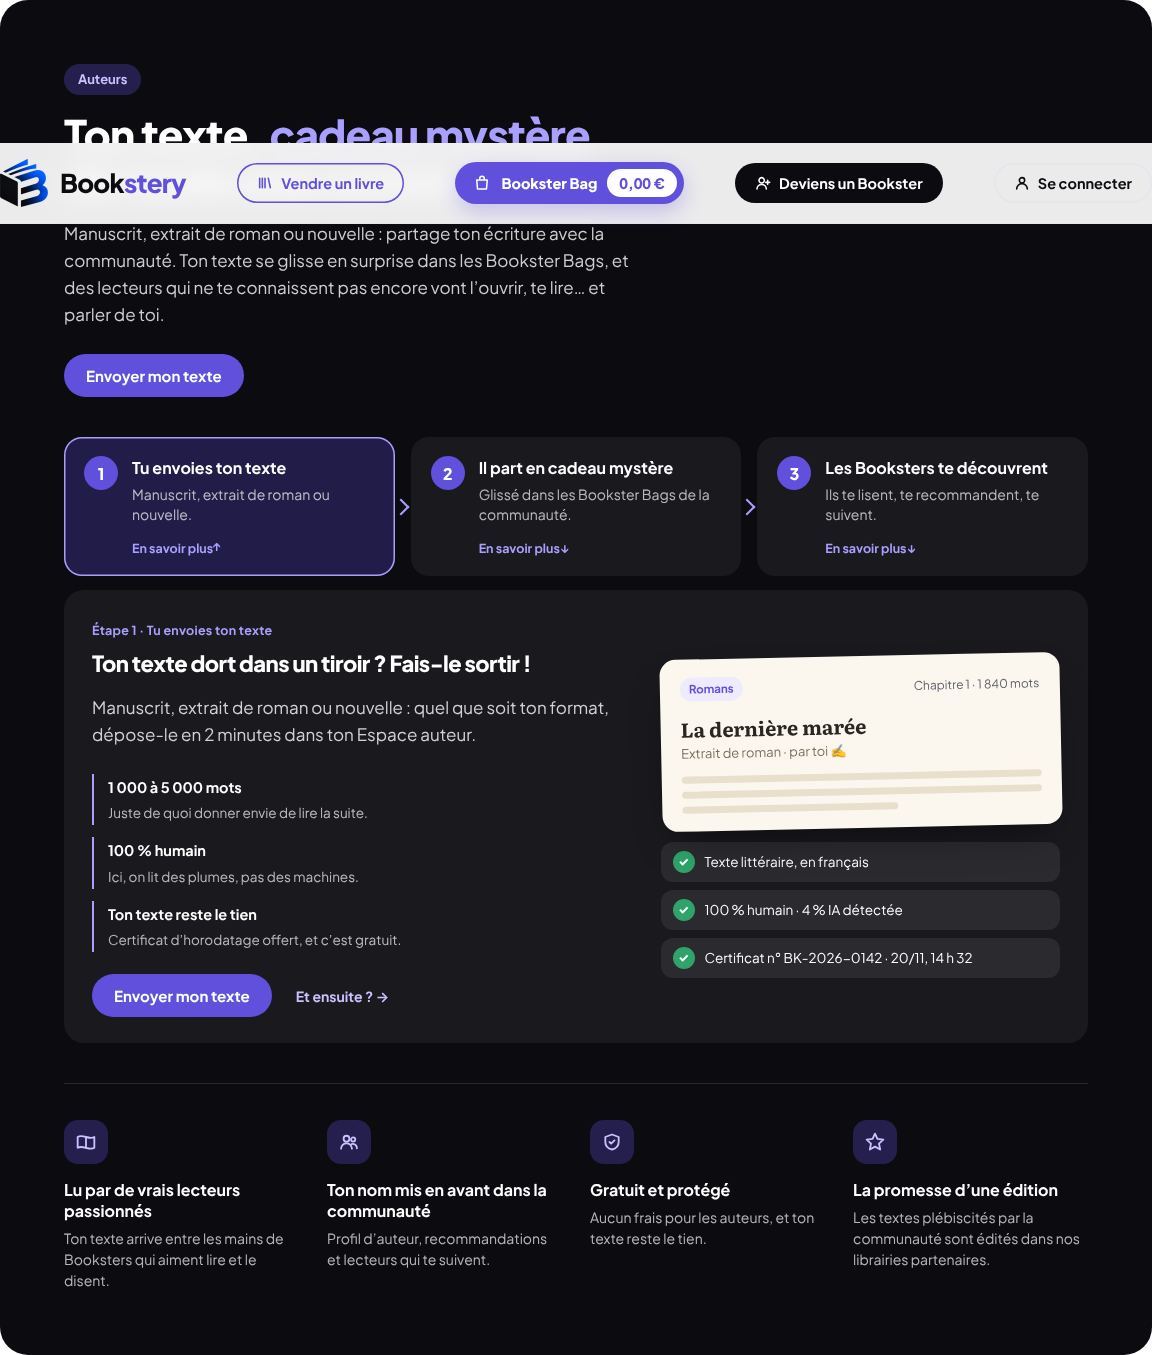
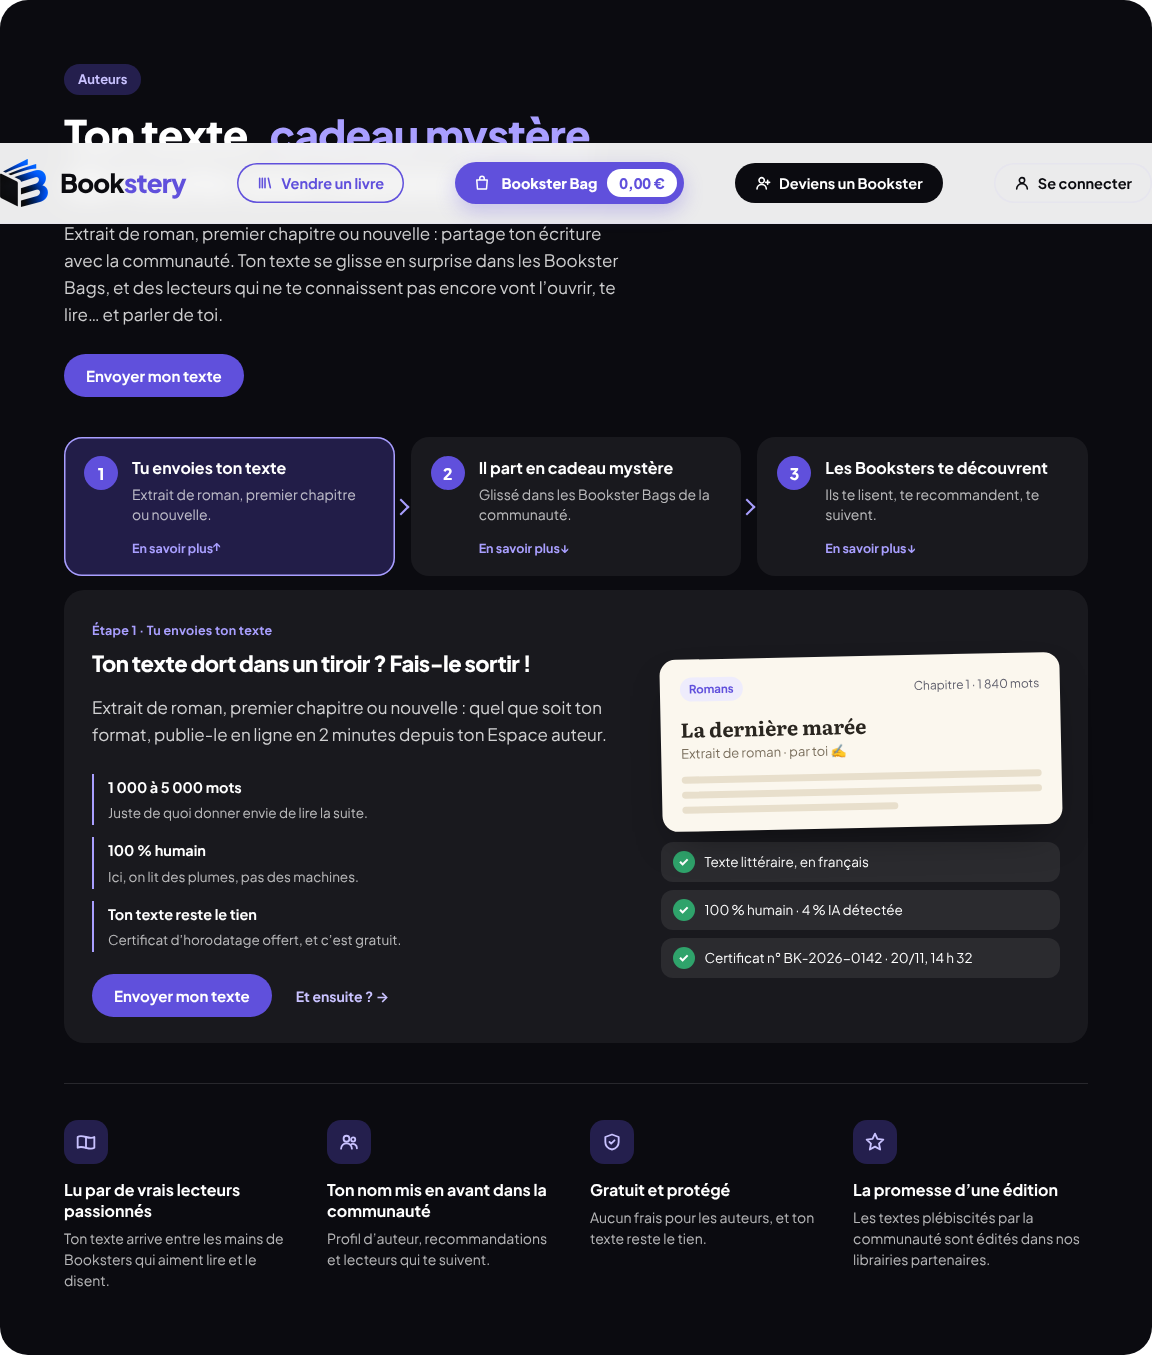
Espace auteur : « extrait de roman, premier chapitre ou nouvelle » au lieu de « manuscrit »
Claude-Session: https://claude.ai/code/session_01EPa3evC84KLMU14gb8iTX3

Changed region(s): [[0.0625, 0.155, 0.5312, 0.248], [0.0938, 0.4959, 0.5312, 0.5579], [0.125, 0.341, 0.3125, 0.403]]

diff --git a/index.html b/index.html
@@ -840,12 +840,12 @@ footer nav{flex-wrap:wrap;gap:10px 24px}
           <div>
             <span class="a-eyebrow">Auteurs</span>
             <h2>Ton texte, <span>cadeau mystère</span> de toute une communauté.</h2>
-            <p>Manuscrit, extrait de roman ou nouvelle&nbsp;: partage ton écriture avec la communauté. Ton texte se glisse en surprise dans les Bookster Bags, et des lecteurs qui ne te connaissent pas encore vont l’ouvrir, te lire… et parler de toi.</p>
+            <p>Extrait de roman, premier chapitre ou nouvelle&nbsp;: partage ton écriture avec la communauté. Ton texte se glisse en surprise dans les Bookster Bags, et des lecteurs qui ne te connaissent pas encore vont l’ouvrir, te lire… et parler de toi.</p>
             <button class="btn" type="button" data-auteur>Envoyer mon texte</button>
           </div>
         </div>
         <ol class="flow" aria-label="Le parcours de ton texte">
-            <li><button class="flow-btn" type="button" id="fb1" aria-expanded="false" aria-controls="fp1"><i>1</i><div><b>Tu envoies ton texte</b><span>Manuscrit, extrait de roman ou nouvelle.</span></div><em class="flow-more" aria-hidden="true">En savoir plus</em></button></li>
+            <li><button class="flow-btn" type="button" id="fb1" aria-expanded="false" aria-controls="fp1"><i>1</i><div><b>Tu envoies ton texte</b><span>Extrait de roman, premier chapitre ou nouvelle.</span></div><em class="flow-more" aria-hidden="true">En savoir plus</em></button></li>
             <li><button class="flow-btn" type="button" id="fb2" aria-expanded="false" aria-controls="fp2"><i>2</i><div><b>Il part en cadeau mystère</b><span>Glissé dans les Bookster Bags de la communauté.</span></div><em class="flow-more" aria-hidden="true">En savoir plus</em></button></li>
             <li><button class="flow-btn" type="button" id="fb3" aria-expanded="false" aria-controls="fp3"><i>3</i><div><b>Les Booksters te découvrent</b><span>Ils te lisent, te recommandent, te suivent.</span></div><em class="flow-more" aria-hidden="true">En savoir plus</em></button></li>
           </ol>
@@ -854,7 +854,7 @@ footer nav{flex-wrap:wrap;gap:10px 24px}
             <div class="fp-txt">
             <span class="fp-k">Étape 1 · Tu envoies ton texte</span>
             <h3>Ton texte dort dans un tiroir&nbsp;? Fais-le sortir&nbsp;!</h3>
-            <p>Manuscrit, extrait de roman ou nouvelle&nbsp;: quel que soit ton format, dépose-le en 2 minutes dans ton Espace auteur.</p>
+            <p>Extrait de roman, premier chapitre ou nouvelle&nbsp;: quel que soit ton format, publie-le en ligne en 2 minutes depuis ton Espace auteur.</p>
             <ul class="fp-list">
               <li><b>1&nbsp;000 à 5&nbsp;000 mots</b><span>Juste de quoi donner envie de lire la suite.</span></li>
               <li><b>100&nbsp;% humain</b><span>Ici, on lit des plumes, pas des machines.</span></li>
@@ -974,7 +974,7 @@ footer nav{flex-wrap:wrap;gap:10px 24px}
   <button class="icon x" type="button" data-close aria-label="Fermer"><svg width="16" height="16" viewBox="0 0 24 24" fill="none" stroke="currentColor" stroke-width="2.6" stroke-linecap="round"><path d="M6 6l12 12M18 6 6 18"/></svg></button>
   <img src="mark.png" alt="">
   <h2 id="mTitle">Deviens un Bookster</h2>
-  <p>Sois prévenu dès l’arrivée des premiers livres et des premiers manuscrits.</p>
+  <p>Sois prévenu dès l’arrivée des premiers livres et des premiers textes d’auteurs.</p>
   <form id="joinForm" novalidate>
     <label for="fn">Prénom</label><input id="fn" required autocomplete="given-name">
     <label for="em">E-mail</label><input id="em" type="email" required autocomplete="email">
@@ -1170,7 +1170,7 @@ footer nav{flex-wrap:wrap;gap:10px 24px}
   <button class="icon x" type="button" data-close aria-label="Fermer"><svg width="16" height="16" viewBox="0 0 24 24" fill="none" stroke="currentColor" stroke-width="2.6" stroke-linecap="round"><path d="M6 6l12 12M18 6 6 18"/></svg></button>
   <span class="a-kicker">Espace auteur</span>
   <h2 id="auTitle">Partage ton texte</h2>
-  <p>Manuscrit, extrait de roman ou nouvelle&nbsp;: dépose ici les pages que tu as envie de faire lire. Dès le dépôt, un certificat d’horodatage prouve que tu en es l’auteur. Et pour que Bookstery reste 100&nbsp;% humain, chaque texte passe par un détecteur d’IA&nbsp;: au-delà de 50&nbsp;% d’écriture générée, il est refusé.</p>
+  <p>Extrait de roman, premier chapitre ou nouvelle&nbsp;: colle ici les pages que tu as envie de faire lire. Dès le dépôt, un certificat d’horodatage prouve que tu en es l’auteur. Et pour que Bookstery reste 100&nbsp;% humain, chaque texte passe par un détecteur d’IA&nbsp;: au-delà de 50&nbsp;% d’écriture générée, il est refusé.</p>
 
   <div class="au-tabs" role="tablist">
     <button type="button" role="tab" id="tabDepot" aria-selected="true" aria-controls="auDepot">Nouveau dépôt</button>
@@ -1194,7 +1194,7 @@ footer nav{flex-wrap:wrap;gap:10px 24px}
         <div><label for="exGenre">Genre</label><select id="exGenre" required></select></div>
       </div>
       <label for="exTexte">Ton texte <span class="hint">Entre 1&nbsp;000 et 5&nbsp;000 mots, soit 4 à 20 pages environ</span></label>
-      <textarea id="exTexte" rows="9" placeholder="Colle ici ton manuscrit, un extrait de ton roman ou ta nouvelle."></textarea>
+      <textarea id="exTexte" rows="9" placeholder="Colle ici ton extrait de roman, ton premier chapitre ou ta nouvelle."></textarea>
       <div class="calib">
         <div class="calib-bar" aria-hidden="true"><span class="calib-ok"></span><i id="calibFill"></i></div>
         <div class="calib-info"><b id="calibCount">0 mot</b><span id="calibTxt">Ton texte doit faire au moins 1&nbsp;000 mots.</span></div>
@@ -1914,7 +1914,7 @@ function resetSteps(){["stMod","stIA","stHash","stTime"].forEach(function(i){ste
 var MOD_MSG={
   contenu_interdit:"Ton texte ne peut pas être publié sur Bookstery : il contient des passages contraires à notre charte (haine, violence gratuite, contenu sexuel explicite, terrorisme ou incitation à des actes illégaux). Les manuscrits mystères sont offerts à des lecteurs de tous horizons : merci de proposer un autre texte.",
   pas_en_francais:"Pour l’instant, Bookstery accueille uniquement des textes écrits en français. Si tu as une version française de ton texte, n’hésite pas à la déposer !",
-  pas_litteraire:"Ton envoi ne ressemble pas à une œuvre littéraire (manuscrit, extrait de roman, nouvelle, conte, poésie…). Bookstery accueille uniquement des textes de création : dépose plutôt un extrait de ton histoire.",
+  pas_litteraire:"Ton envoi ne ressemble pas à une œuvre littéraire (extrait de roman, nouvelle, conte, poésie…). Bookstery accueille uniquement des textes de création : dépose plutôt un extrait de ton histoire.",
   illisible_ou_fautes:"Ton texte mérite une relecture avant d’être offert aux lecteurs : nous y avons repéré de nombreuses fautes ou des passages difficiles à lire. Prends le temps de le relire, ou de le faire relire par un proche, puis dépose-le à nouveau. On a hâte de te lire !"};
 var MOD_TITRE={contenu_interdit:"Ce texte ne peut pas être publié",pas_en_francais:"Un texte en français, s’il te plaît",pas_litteraire:"Ce n’est pas encore une histoire",illisible_ou_fautes:"Encore une petite relecture ?"};
 function showModRefus(motif,msg,conseil){
